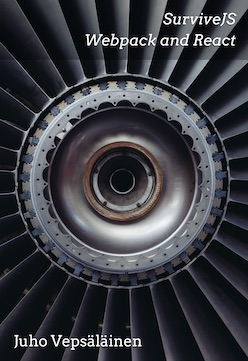
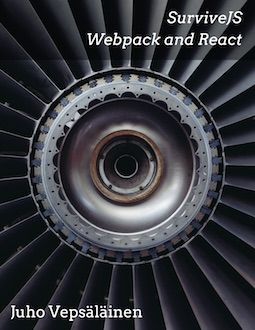
Updates

diff --git a/index/index.html b/index/index.html
@@ -1,8 +1,6 @@
-<html><head><title>itemWithNesting / SurviveJS - Webpack and React</title><meta name="viewport" content="width=device-width, initial-scale=1, maximum-scale=1, minimal-ui"><link rel="icon" type="image/png" href="assets/img/favicon.png"><link rel="stylesheet" href="assets/main.css"></head><body><div><div class="nav__wrapper"><input type="checkbox" class="nav__toggle" id="nav__toggle"><label class="nav__toggle-label" for="nav__toggle"></label><nav class="nav"><div class="nav__link"><a href="/">Home</a></div><div class="nav__link"><a href="/webpack_react/introduction">Read the book</a></div><div class="nav__link"><a href="https://leanpub.com/survivejs_webpack">Buy the ebook</a></div></nav></div><main role="main"><div class="post post--front"><div class="header-image header-image--front" style="background:#558E8E;background-image:url(/images/front.jpg);background-size:cover;"></div><div class="post__heading"><h1 class="front-header" style="font-size:54px;line-height:1.5;">SurviveJS - Webpack and React</h1><h3>Go from zero to Webpack and React hero</h3><div class="front__buttons"><a href="webpack_react/introduction" class="btn btn--inverted">Read the Book</a><a href="https://github.com/survivejs/webpack_react" class="btn btn--inverted">View on GitHub</a><a href="https://leanpub.com/survivejs_webpack" class="btn btn--inverted">Buy the Ebook</a></div></div><div class="post__content"><h2 id="what-is-survivejs-webpack-and-react-">What is SurviveJS - Webpack and React?</h2>
-<p>I remember when I saw <a href="https://facebook.github.io/react/">React</a> the first time. It took me a while get over JSX. Once I got into the right mindset, React started to make sense. During the process I had to unlearn some things and start thinking about state and most importantly components and lifecycle.</p>
-<p>Facebook&apos;s React will change the way you think about frontend web development for better. Once you understand the basic concepts it will make you better as a web developer. Most importantly it allows you to become more efficient even if you don&apos;t stick with it.</p>
-<p><a href="https://webpack.github.io/">Webpack</a> is a tool I picked up later on. It simplifies work greatly as it solves the difficult problem of bundling. In addition it enables fast development flow with React and integrates well with various other technologies. In short it has allowed me to forget some of the grunt work involved (pun intended!).</p>
-<p><em>SurviveJS - Webpack and React</em> is the book I wish I had when I started delving into React. It&apos;s not impossible to pick up these tools without support of a book. However, I believe this book will help to get you jumpstarted in the process.</p>
+<html><head><title>itemWithNesting / SurviveJS - Webpack and React</title><meta name="viewport" content="width=device-width, initial-scale=1, maximum-scale=1, minimal-ui"><link rel="icon" type="image/png" href="assets/img/favicon.png"><link rel="stylesheet" href="assets/main.css"></head><body><div><div class="nav__wrapper"><input type="checkbox" class="nav__toggle" id="nav__toggle"><label class="nav__toggle-label" for="nav__toggle"></label><nav class="nav"><div class="nav__link"><a href="/">Home</a></div><div class="nav__link"><a href="/webpack_react/introduction">Read the book</a></div><div class="nav__link"><a href="https://leanpub.com/survivejs_webpack">Buy the ebook</a></div></nav></div><main role="main"><div class="frontpage"><div class="post__heading"><h1 class="front-header">SurviveJS - Webpack and React</h1><h3 class="front-motto">Go from zero to Webpack and React hero</h3><img style="margin:0 auto;" src="images/title_page_small.jpg"><div class="front__buttons"><a href="webpack_react/introduction" class="btn btn--inverted">Read the Book</a><a href="https://github.com/survivejs/webpack_react" class="btn btn--inverted">View on GitHub</a><a href="https://leanpub.com/survivejs_webpack" class="btn btn--inverted">Buy the Ebook</a></div></div><div class="post post--front"><div class="post__content"><h2 id="what-is-survivejs-webpack-and-react-">What is SurviveJS - Webpack and React?</h2>
+<p><a href="https://webpack.github.io/">Webpack</a> and <a href="https://facebook.github.io/react/">React</a> are some of the newest tools available for a frontend developer. Webpack solves the difficult problem of bundling. Facebook&apos;s React provides immense view productivity. Combined these technologies provide a good starting point for frontend development.</p>
+<p><em>SurviveJS - Webpack and React</em> is the book I wish I had when I started delving into the topic. Both come with a learning curve. This book is here to make it more palatable.</p>
 <p>I expect you know the basics of JavaScript but beyond that not much is needed. You just need to have patience to work through the book and poke me in case there&apos;s something you don&apos;t understand!</p>
 <h2 id="what-s-in-it-for-me-">What&apos;s in it for me?</h2>
 <div style="margin-bottom: 1em">
@@ -11,18 +9,14 @@
     <span class="legend" style="font-size: small;"><a href="https://www.flickr.com/photos/91555706@N00/3879384912/">Dennis Hamilton</a> - Kanban (CC BY)</span>
 </div>
 
-<p>The book is project based. I will show you how to set up a Webpack based development environment. After that I will help you to develop a Kanban application. Finally I will discuss deployment and library authoring related issues. The project won&apos;t be very complicated but I can assure you that you will learn a lot in the process.</p>
+<p>In this project based book I will show you how to develop a Kanban application. You will learn how to set up a Webpack based development environment and understand basics of React. In addition you will be able to deploy your code to production and author your own libraries after you have grasped the concepts discussed in the book.</p>
 <p>The project and book source are available at <a href="https://github.com/survivejs/webpack_react">GitHub</a>. In addition I have linked to the project source and demos on this website.</p>
 <h2 id="how-to-support-">How to support?</h2>
 <p>Even though the book is freely available under <a href="https://creativecommons.org/licenses/by-nc-nd/4.0/">CC BY-NC-ND</a> license, financial support is welcome. It will allow me to devote more time developing the content. If you think this is a worthy cause, you can purchase <a href="https://leanpub.com/survivejs_webpack">an electronic copy of the book</a>.</p>
-<div>
-    <div style="background-image: url(&apos;images/title_page_small.jpg&apos;); width: 248px; height: 360px; margin: 0 auto;"></div>
-</div>
-
 <h2 id="who-wrote-this-book-">Who wrote this book?</h2>
 <p>I, <a href="https://twitter.com/bebraw">Juho Veps&#xE4;l&#xE4;inen</a>, have been dealing with the web one way or another since the 90s. All hail <em>marquee</em>! I&apos;ve seen the rise of web and JavaScript in particular. Besides React I have extensive experience in Angular, jQuery and various smaller libraries (mapping, charts, whatnot).</p>
 <p>In addition to web development I have worked using C (embedded and systems level) and computer graphics. On backend side I&apos;m most familiar with Node.js although I&apos;ve done some work with PHP and Ruby.</p>
 <h2 id="why-was-the-book-written-">Why was the book written?</h2>
 <p>I&apos;ve been blogging a few years at <a href="http://nixtu.info/">nixtu.info</a>. This book is an attempt to turn my freelancing career into a different direction. I hope it will yield a good way to combine my interest in technology with writing while helping the community.</p>
 <p>This book probably wouldn&apos;t have gotten written in its current form unless I had started <a href="https://christianalfoni.github.io/react-webpack-cookbook/">a cookbook about Webpack and React</a> with <a href="http://www.christianalfoni.com/">Christian Alfoni</a> and received a rejection from a publisher. In addition numerous people have devoted their precious time towards improving the book so thanks for that!</p>
-</div></div><noscript></noscript><div class="prevnext-pages"><a href="../index" class="previous-page"></a></div></main></div></body></html>
+</div></div></div><noscript></noscript><div class="prevnext-pages"><a href="../index" class="previous-page"></a></div></main></div></body></html>

diff --git a/index.html b/index.html
@@ -1,8 +1,6 @@
-<html><head><title>index / SurviveJS - Webpack and React</title><meta name="viewport" content="width=device-width, initial-scale=1, maximum-scale=1, minimal-ui"><link rel="icon" type="image/png" href="assets/img/favicon.png"><link rel="stylesheet" href="assets/main.css"></head><body><div><div class="nav__wrapper"><input type="checkbox" class="nav__toggle" id="nav__toggle"><label class="nav__toggle-label" for="nav__toggle"></label><nav class="nav"><div class="nav__link"><a href="/">Home</a></div><div class="nav__link"><a href="/webpack_react/introduction">Read the book</a></div><div class="nav__link"><a href="https://leanpub.com/survivejs_webpack">Buy the ebook</a></div></nav></div><main role="main"><div class="post post--front"><div class="header-image header-image--front" style="background:#558E8E;background-image:url(/images/front.jpg);background-size:cover;"></div><div class="post__heading"><h1 class="front-header" style="font-size:54px;line-height:1.5;">SurviveJS - Webpack and React</h1><h3>Go from zero to Webpack and React hero</h3><div class="front__buttons"><a href="webpack_react/introduction" class="btn btn--inverted">Read the Book</a><a href="https://github.com/survivejs/webpack_react" class="btn btn--inverted">View on GitHub</a><a href="https://leanpub.com/survivejs_webpack" class="btn btn--inverted">Buy the Ebook</a></div></div><div class="post__content"><h2 id="what-is-survivejs-webpack-and-react-">What is SurviveJS - Webpack and React?</h2>
-<p>I remember when I saw <a href="https://facebook.github.io/react/">React</a> the first time. It took me a while get over JSX. Once I got into the right mindset, React started to make sense. During the process I had to unlearn some things and start thinking about state and most importantly components and lifecycle.</p>
-<p>Facebook&apos;s React will change the way you think about frontend web development for better. Once you understand the basic concepts it will make you better as a web developer. Most importantly it allows you to become more efficient even if you don&apos;t stick with it.</p>
-<p><a href="https://webpack.github.io/">Webpack</a> is a tool I picked up later on. It simplifies work greatly as it solves the difficult problem of bundling. In addition it enables fast development flow with React and integrates well with various other technologies. In short it has allowed me to forget some of the grunt work involved (pun intended!).</p>
-<p><em>SurviveJS - Webpack and React</em> is the book I wish I had when I started delving into React. It&apos;s not impossible to pick up these tools without support of a book. However, I believe this book will help to get you jumpstarted in the process.</p>
+<html><head><title>index / SurviveJS - Webpack and React</title><meta name="viewport" content="width=device-width, initial-scale=1, maximum-scale=1, minimal-ui"><link rel="icon" type="image/png" href="assets/img/favicon.png"><link rel="stylesheet" href="assets/main.css"></head><body><div><div class="nav__wrapper"><input type="checkbox" class="nav__toggle" id="nav__toggle"><label class="nav__toggle-label" for="nav__toggle"></label><nav class="nav"><div class="nav__link"><a href="/">Home</a></div><div class="nav__link"><a href="/webpack_react/introduction">Read the book</a></div><div class="nav__link"><a href="https://leanpub.com/survivejs_webpack">Buy the ebook</a></div></nav></div><main role="main"><div class="frontpage"><div class="post__heading"><h1 class="front-header">SurviveJS - Webpack and React</h1><h3 class="front-motto">Go from zero to Webpack and React hero</h3><img style="margin:0 auto;" src="images/title_page_small.jpg"><div class="front__buttons"><a href="webpack_react/introduction" class="btn btn--inverted">Read the Book</a><a href="https://github.com/survivejs/webpack_react" class="btn btn--inverted">View on GitHub</a><a href="https://leanpub.com/survivejs_webpack" class="btn btn--inverted">Buy the Ebook</a></div></div><div class="post post--front"><div class="post__content"><h2 id="what-is-survivejs-webpack-and-react-">What is SurviveJS - Webpack and React?</h2>
+<p><a href="https://webpack.github.io/">Webpack</a> and <a href="https://facebook.github.io/react/">React</a> are some of the newest tools available for a frontend developer. Webpack solves the difficult problem of bundling. Facebook&apos;s React provides immense view productivity. Combined these technologies provide a good starting point for frontend development.</p>
+<p><em>SurviveJS - Webpack and React</em> is the book I wish I had when I started delving into the topic. Both come with a learning curve. This book is here to make it more palatable.</p>
 <p>I expect you know the basics of JavaScript but beyond that not much is needed. You just need to have patience to work through the book and poke me in case there&apos;s something you don&apos;t understand!</p>
 <h2 id="what-s-in-it-for-me-">What&apos;s in it for me?</h2>
 <div style="margin-bottom: 1em">
@@ -11,18 +9,14 @@
     <span class="legend" style="font-size: small;"><a href="https://www.flickr.com/photos/91555706@N00/3879384912/">Dennis Hamilton</a> - Kanban (CC BY)</span>
 </div>
 
-<p>The book is project based. I will show you how to set up a Webpack based development environment. After that I will help you to develop a Kanban application. Finally I will discuss deployment and library authoring related issues. The project won&apos;t be very complicated but I can assure you that you will learn a lot in the process.</p>
+<p>In this project based book I will show you how to develop a Kanban application. You will learn how to set up a Webpack based development environment and understand basics of React. In addition you will be able to deploy your code to production and author your own libraries after you have grasped the concepts discussed in the book.</p>
 <p>The project and book source are available at <a href="https://github.com/survivejs/webpack_react">GitHub</a>. In addition I have linked to the project source and demos on this website.</p>
 <h2 id="how-to-support-">How to support?</h2>
 <p>Even though the book is freely available under <a href="https://creativecommons.org/licenses/by-nc-nd/4.0/">CC BY-NC-ND</a> license, financial support is welcome. It will allow me to devote more time developing the content. If you think this is a worthy cause, you can purchase <a href="https://leanpub.com/survivejs_webpack">an electronic copy of the book</a>.</p>
-<div>
-    <div style="background-image: url(&apos;images/title_page_small.jpg&apos;); width: 248px; height: 360px; margin: 0 auto;"></div>
-</div>
-
 <h2 id="who-wrote-this-book-">Who wrote this book?</h2>
 <p>I, <a href="https://twitter.com/bebraw">Juho Veps&#xE4;l&#xE4;inen</a>, have been dealing with the web one way or another since the 90s. All hail <em>marquee</em>! I&apos;ve seen the rise of web and JavaScript in particular. Besides React I have extensive experience in Angular, jQuery and various smaller libraries (mapping, charts, whatnot).</p>
 <p>In addition to web development I have worked using C (embedded and systems level) and computer graphics. On backend side I&apos;m most familiar with Node.js although I&apos;ve done some work with PHP and Ruby.</p>
 <h2 id="why-was-the-book-written-">Why was the book written?</h2>
 <p>I&apos;ve been blogging a few years at <a href="http://nixtu.info/">nixtu.info</a>. This book is an attempt to turn my freelancing career into a different direction. I hope it will yield a good way to combine my interest in technology with writing while helping the community.</p>
 <p>This book probably wouldn&apos;t have gotten written in its current form unless I had started <a href="https://christianalfoni.github.io/react-webpack-cookbook/">a cookbook about Webpack and React</a> with <a href="http://www.christianalfoni.com/">Christian Alfoni</a> and received a rejection from a publisher. In addition numerous people have devoted their precious time towards improving the book so thanks for that!</p>
-</div></div><noscript></noscript><noscript></noscript></main></div></body></html>
+</div></div></div><noscript></noscript><noscript></noscript></main></div></body></html>

diff --git a/assets/main.css b/assets/main.css
@@ -1173,6 +1173,10 @@ main {
   margin-top: 100vh;
   padding-top: 54px; }
 
+/* given 100vw doesn't take scrollbar in count maximum width needs to be clamped */
+.header-image, .post__heading {
+  max-width: 100%; }
+
 .post__author, .post__moment {
   margin-bottom: 27px; }
 
@@ -1473,6 +1477,17 @@ pre code {
 code {
   padding: 0.25em; }
 
+.frontpage .front-header {
+  font-size: 54px;
+  line-height: 1.5; }
+.frontpage .front-header, .frontpage .front-motto {
+  color: #efefef; }
+.frontpage .front-motto {
+  margin-top: 0; }
+.frontpage .post__heading {
+  background: #333;
+  text-align: center; }
+
 .nav {
   padding-bottom: 0.25em;
   background: -webkit-linear-gradient(bottom, #fff 0%, rgba(255, 255, 255, 0.9) 35%, rgba(255, 255, 255, 0.45) 50%, rgba(255, 255, 255, 0.1) 75%, rgba(255, 255, 255, 0) 100%);
@@ -1494,17 +1509,14 @@ code {
 .post__demo {
   margin-left: 1em; }
 
-.header-image, .post__heading {
-  max-width: 100%; }
-
 .header-image + .post__heading {
-  margin-top: calc(35vh); }
+  margin-top: calc(40vh); }
 
 .header-image {
-  height: 70vh; }
+  height: 78vh; }
 
 .header-image + .post__heading + .post__content {
-  margin-top: 70vh;
+  margin-top: 75vh;
   padding-top: 5vh; }
 
 .docs-nav__wrapper--push-down {
